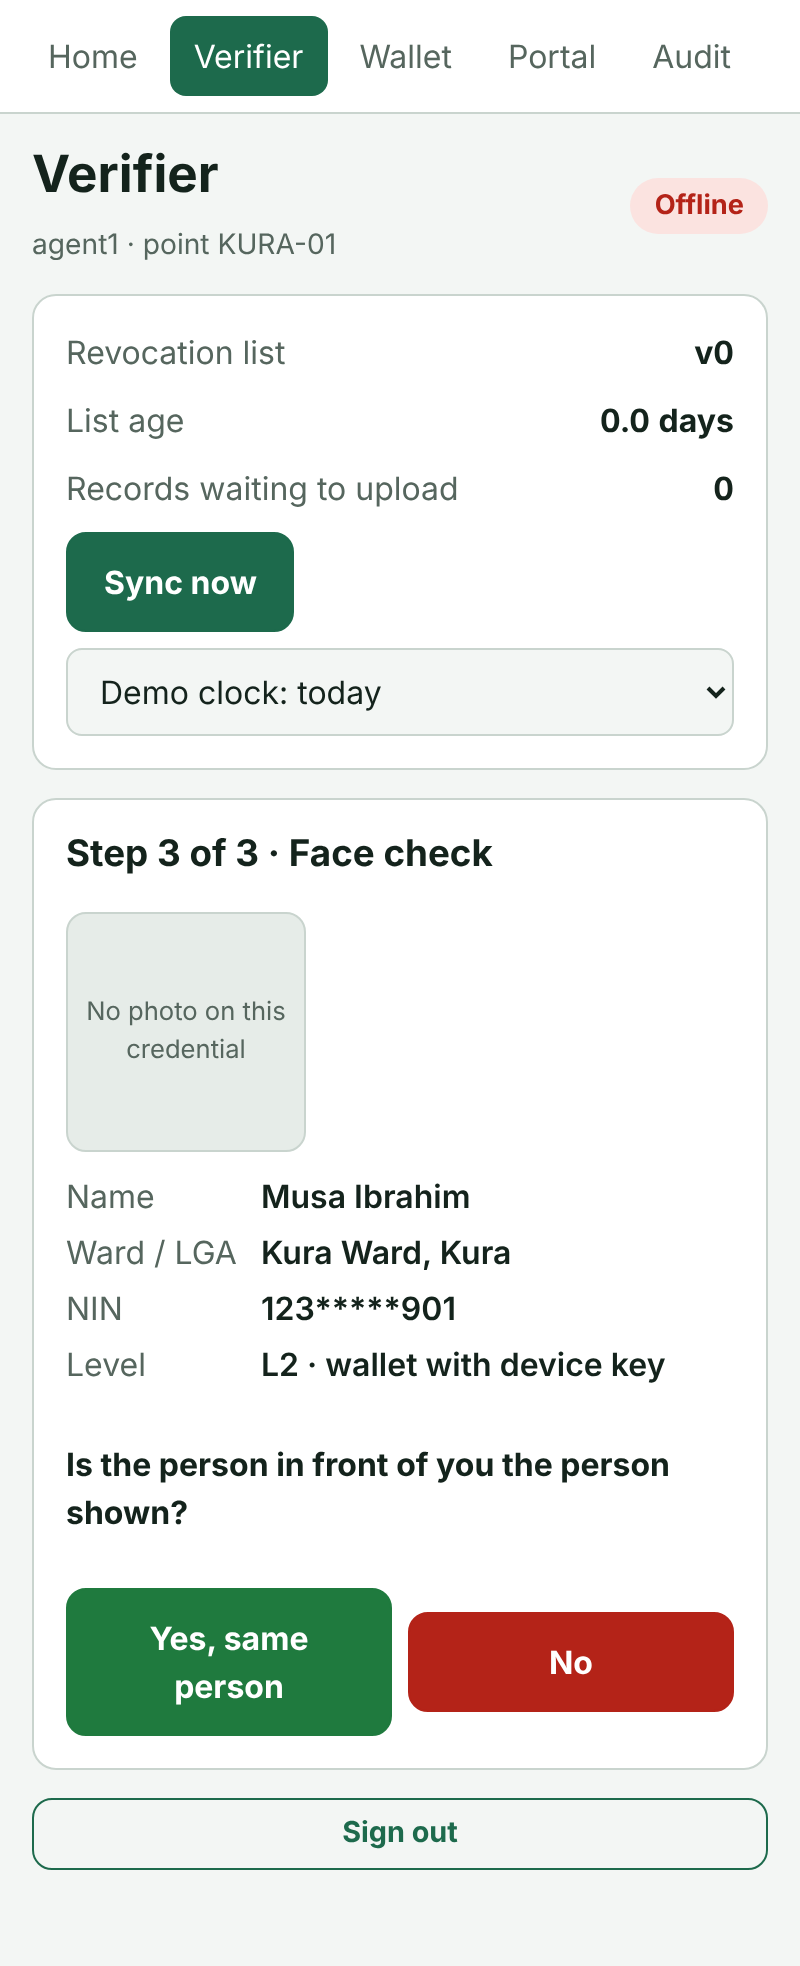
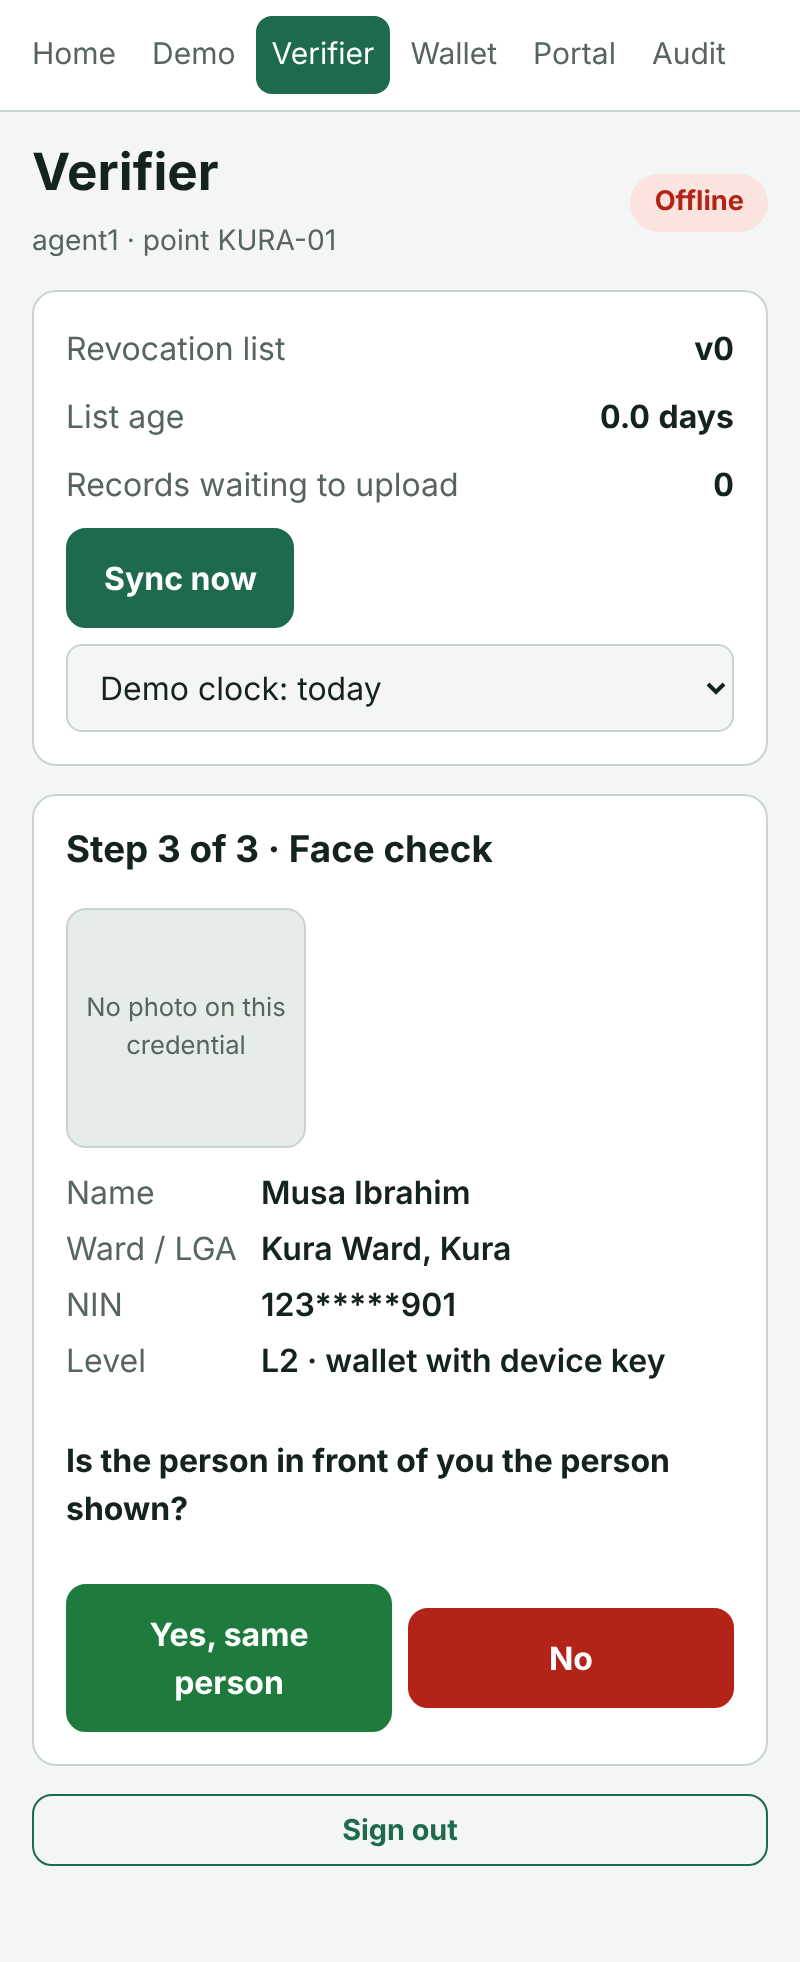
fix(web): navigation fits on phone screens; refresh system-test screenshots
At 400 px the six navigation tabs overflowed, hiding Portal and Audit.
Shortened "Guided demo" to "Demo" and tightened tab spacing on small
screens. Re-ran TC-SYS-002 (11/11) and TC-SYS-003 (16/16) on fresh
services; screenshots refreshed, plus user-manual screenshots.

Claude-Session: https://claude.ai/code/session_01QPnBjwiyrQssQe7oKoWEcr

diff --git a/web/src/styles.css b/web/src/styles.css
@@ -18,6 +18,7 @@ h1 { font-size: 1.6rem; } h2 { font-size: 1.15rem; }
 .nav { display: flex; gap: 4px; overflow-x: auto; padding: 8px max(12px, env(safe-area-inset-left)); background: var(--surface); border-bottom: 1px solid var(--line); }
 .nav a { color: var(--muted); text-decoration: none; padding: 8px 12px; border-radius: 8px; white-space: nowrap; }
 .nav a.active { background: var(--accent); color: var(--accent-ink); }
+@media (max-width: 480px) { .nav { gap: 2px; padding-left: 8px; padding-right: 8px; } .nav a { padding: 8px 8px; font-size: 15px; } }
 .page { max-width: 560px; margin: 0 auto; padding: 16px max(16px, env(safe-area-inset-left)) 48px; display: grid; gap: 14px; }
 .page.wide { max-width: 980px; }
 .bar { display: flex; justify-content: space-between; align-items: center; gap: 12px; }

diff --git a/web/src/App.tsx b/web/src/App.tsx
@@ -14,7 +14,7 @@ export default function App() {
   return (
     <>
       <nav className="nav noprint">
-        <Link to="/">Home</Link><Link to="/demo">Guided demo</Link><Link to="/verifier">Verifier</Link>
+        <Link to="/">Home</Link><Link to="/demo">Demo</Link><Link to="/verifier">Verifier</Link>
         <Link to="/wallet">Wallet</Link><Link to="/portal">Portal</Link><Link to="/audit">Audit</Link>
       </nav>
       <Screen key={path} />
